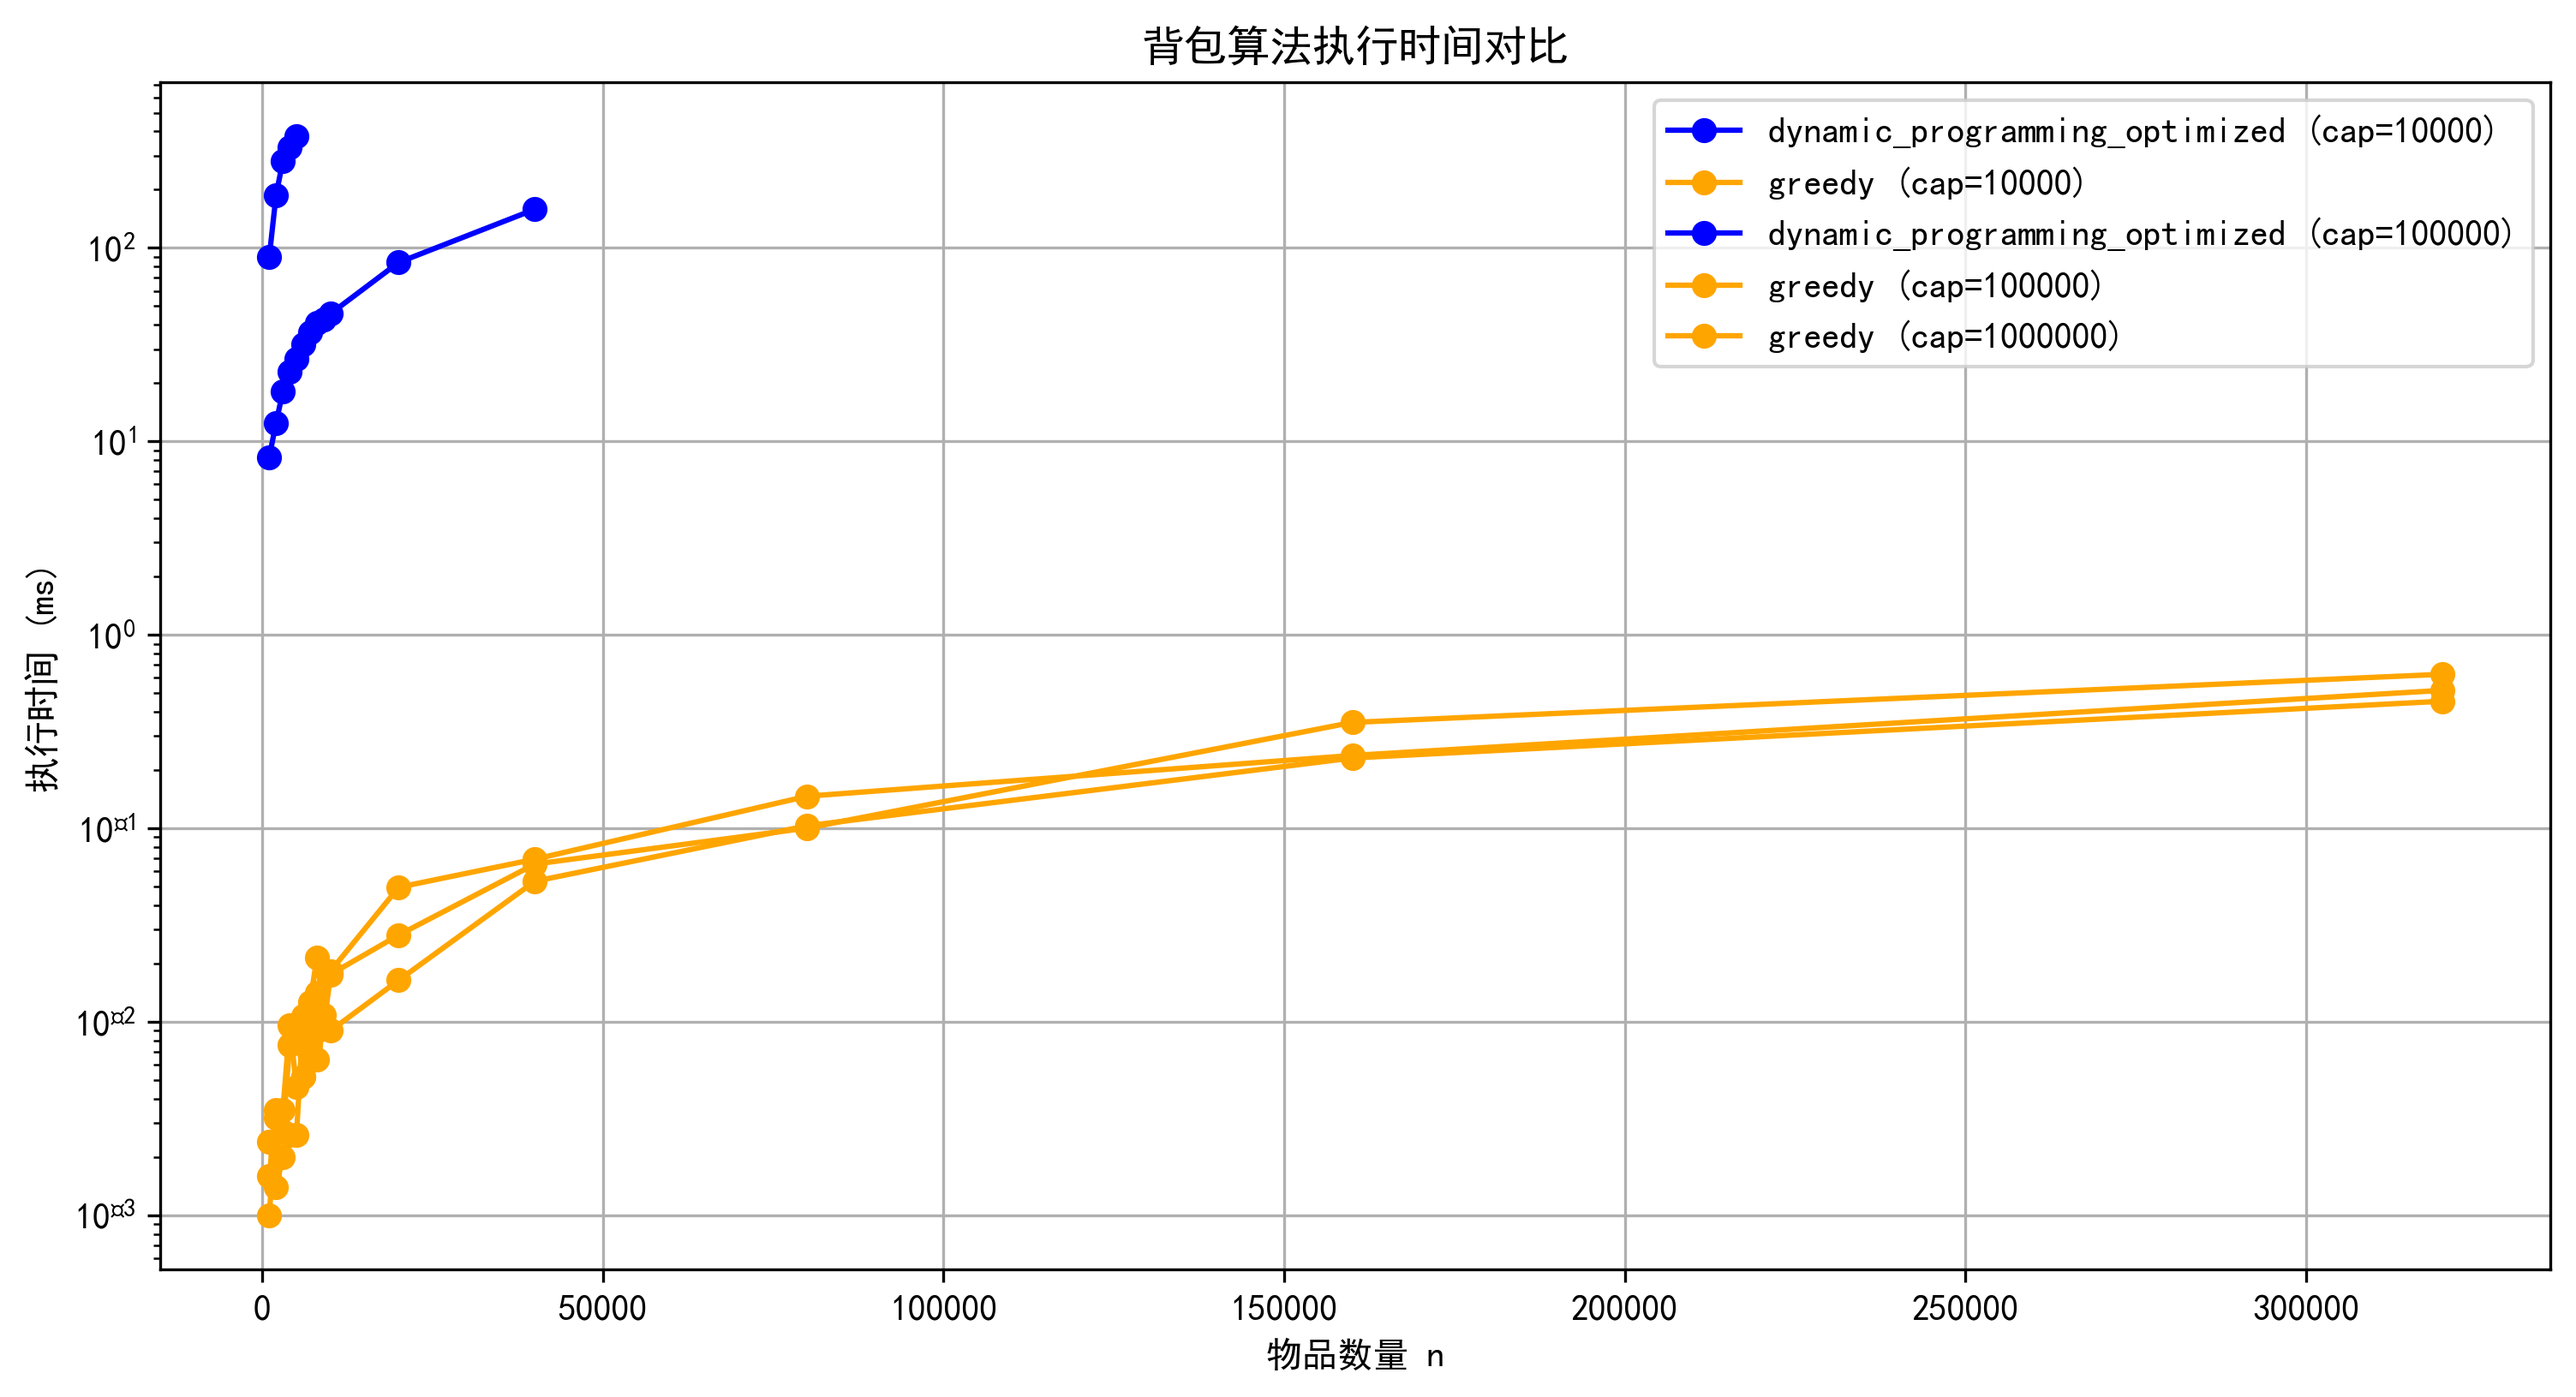
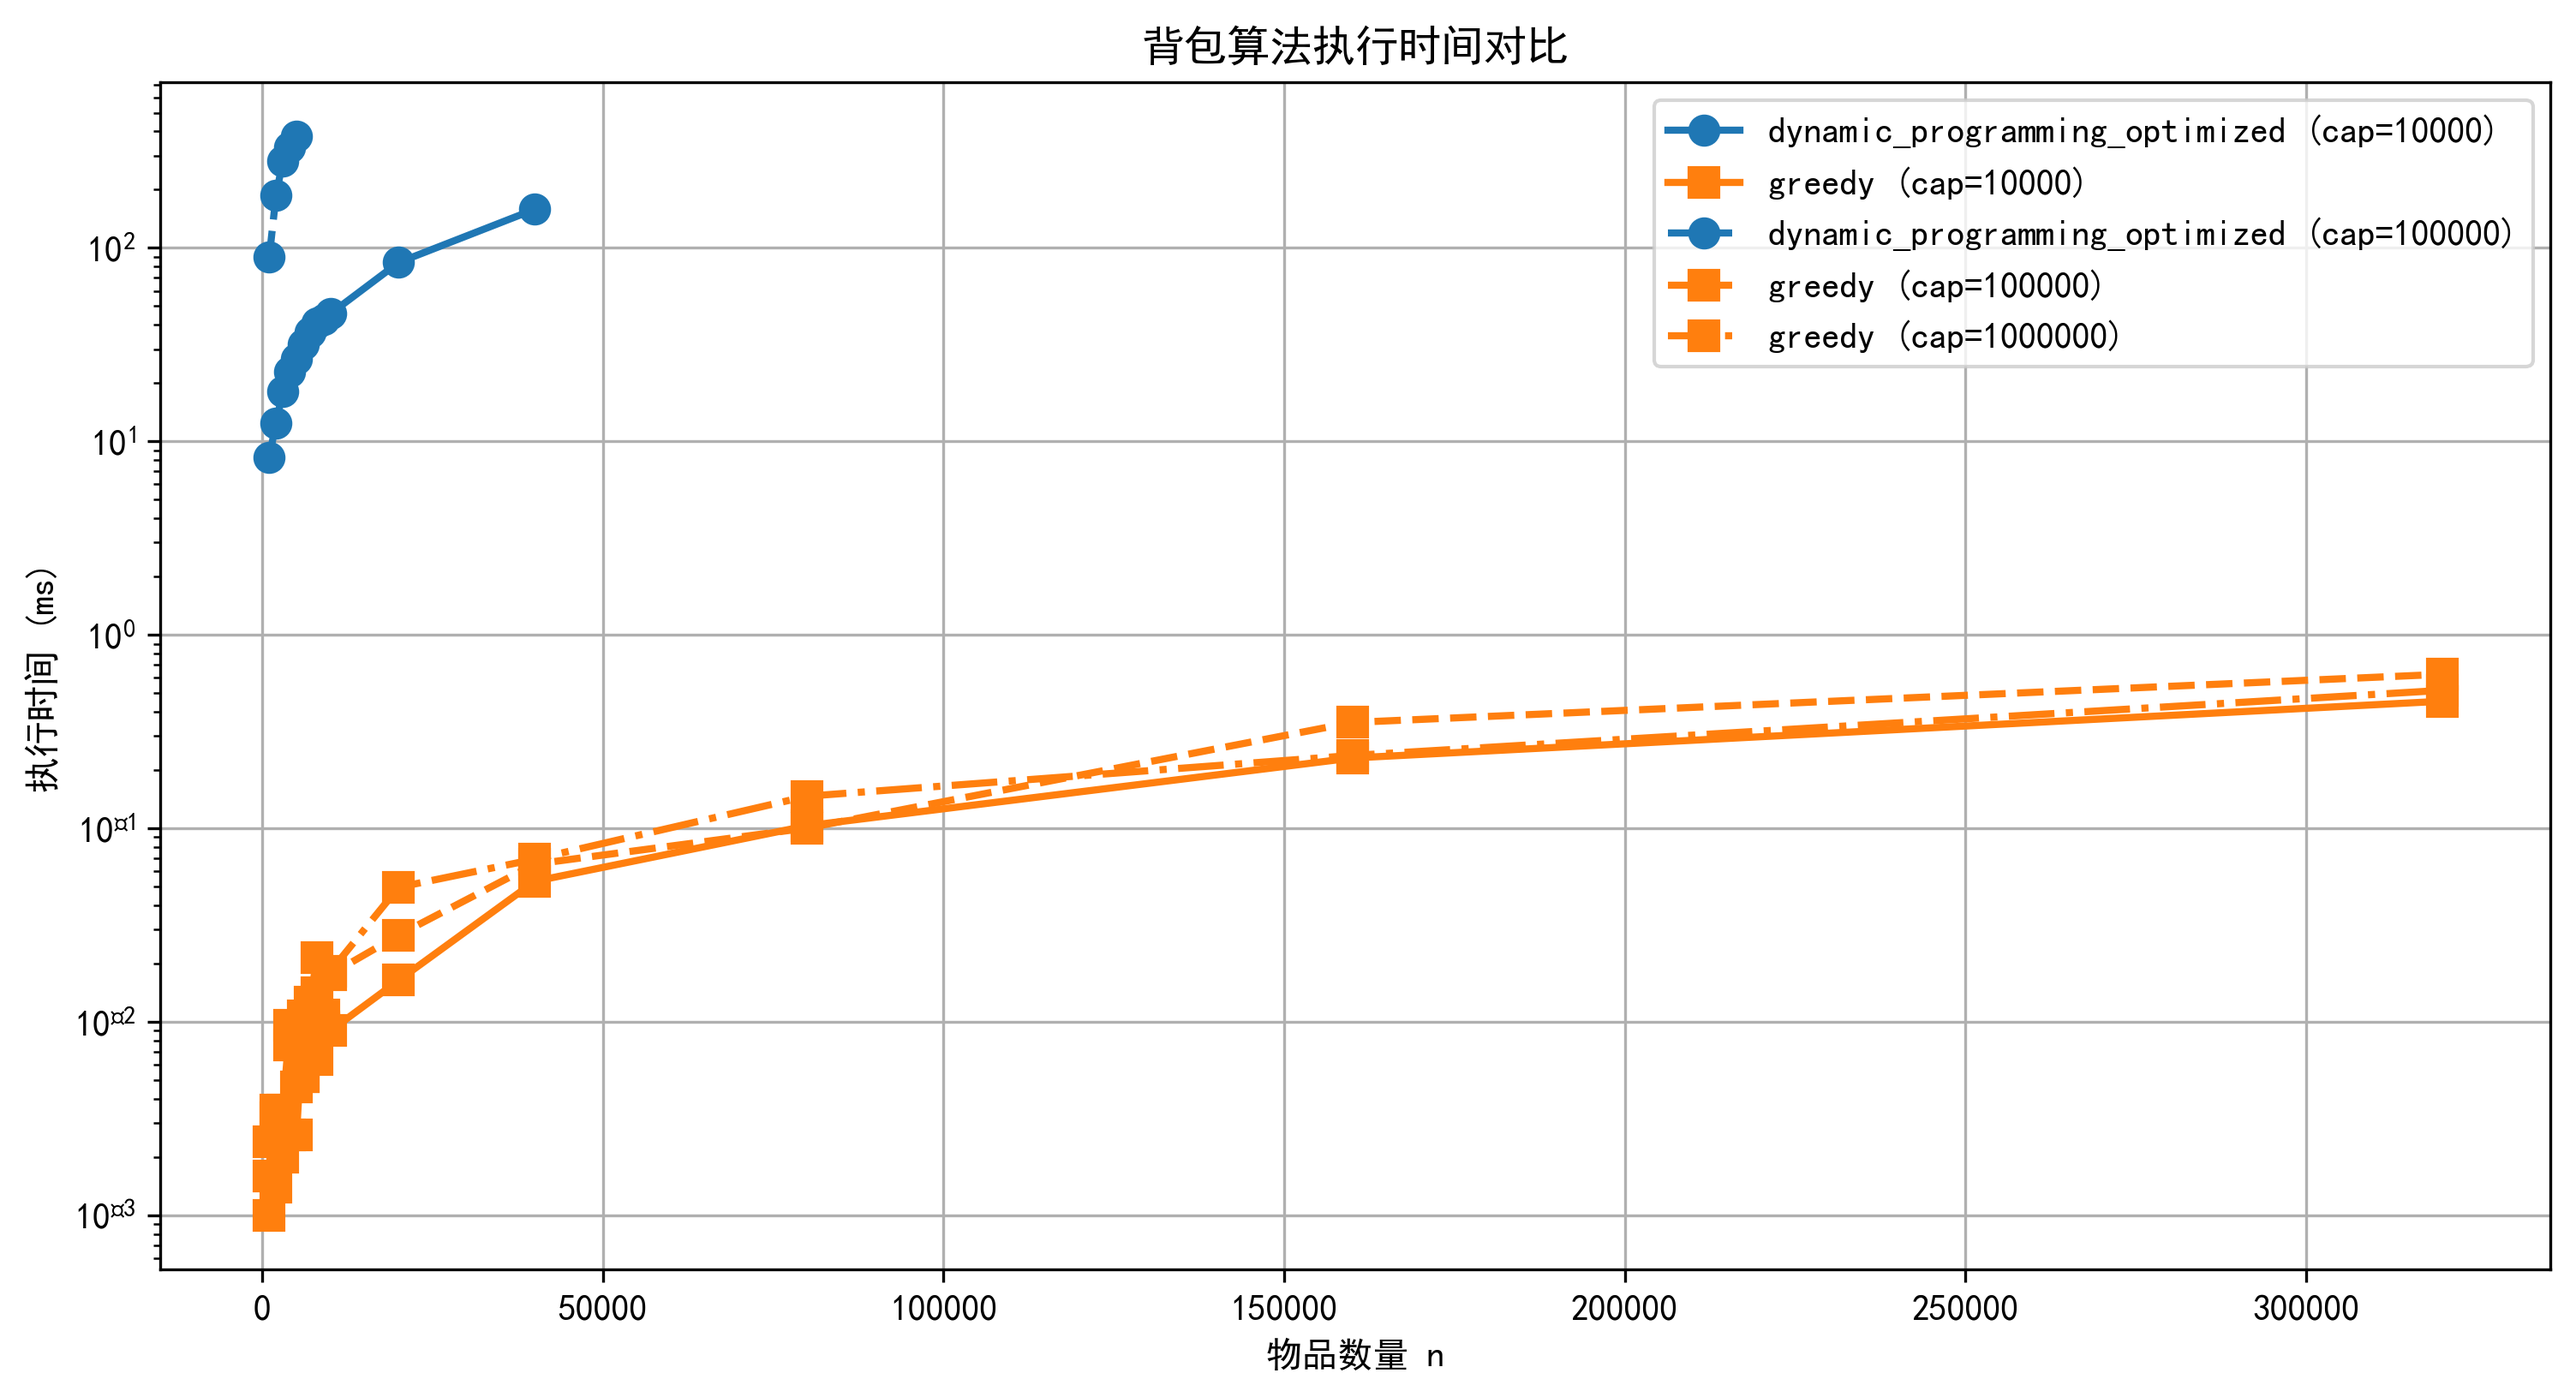
fix: improve knapsack chart colors and remove memory note

diff --git a/scripts/generate_knapsack_charts.py b/scripts/generate_knapsack_charts.py
@@ -1,4 +1,13 @@
-import csv
+import sys
+import csv
+
+# 移除用户目录中的包路径，优先使用 Anaconda 中的版本
+new_path = []
+for p in sys.path:
+    if 'AppData\\Roaming\\Python' not in p:
+        new_path.append(p)
+sys.path = new_path
+
 import matplotlib
 matplotlib.use("Agg")
 matplotlib.rcParams["font.family"] = ["SimHei", "WenQuanYi Micro Hei", "Heiti TC"]
@@ -25,7 +34,9 @@ scale_data = read_csv("results/knapsack/required_scale_results.csv")
 plt.figure(figsize=(12, 6))
 capacities = [10000, 100000, 1000000]
 algorithms = ["dynamic_programming_optimized", "greedy"]
-colors = {"dynamic_programming_optimized": "blue", "greedy": "orange"}
+colors = {"dynamic_programming_optimized": "#1f77b4", "greedy": "#ff7f0e"}
+markers = {"dynamic_programming_optimized": "o", "greedy": "s"}
+linestyles = {10000: "-", 100000: "--", 1000000: "-."}
 
 for capacity in capacities:
     for algo in algorithms:
@@ -36,7 +47,8 @@ for capacity in capacities:
                 n_vals.append(int(row["n"]))
                 times.append(float(row["elapsed_ms"]))
         if n_vals:
-            plt.plot(n_vals, times, marker="o", label=f"{algo} (cap={capacity})", color=colors[algo])
+            plt.plot(n_vals, times, marker=markers[algo], label=f"{algo} (cap={capacity})", 
+                     color=colors[algo], linestyle=linestyles[capacity], linewidth=2, markersize=8)
 
 plt.xlabel("物品数量 n")
 plt.ylabel("执行时间 (ms)")
@@ -58,11 +70,12 @@ for capacity in capacities:
                 n_vals.append(int(row["n"]))
                 mems.append(int(row["estimated_memory_bytes"]) / (1024 * 1024))  # 转换为 MB
         if n_vals:
-            plt.plot(n_vals, mems, marker="s", label=f"{algo} (cap={capacity})", color=colors[algo])
+            plt.plot(n_vals, mems, marker=markers[algo], label=f"{algo} (cap={capacity})", 
+                     color=colors[algo], linestyle=linestyles[capacity], linewidth=2, markersize=8)
 
 plt.xlabel("物品数量 n")
 plt.ylabel("估算内存 (MB)")
-plt.title("背包算法内存使用对比\n(注：此为核心数据结构的估算空间，非操作系统实测峰值内存)")
+plt.title("背包算法内存使用对比")
 plt.legend()
 plt.grid(True)
 plt.savefig("figures/knapsack_memory_usage.png", dpi=300, bbox_inches="tight")
@@ -77,8 +90,10 @@ for capacity in capacities:
     gaps = []
     for row in quality_data:
         if int(row["capacity"]) == capacity:
-            n_vals.append(int(row["n"]))
-            gaps.append(float(row["greedy_gap_percent"]))
+            gap_val = row["greedy_gap_percent"]
+            if gap_val and gap_val.strip():  # 跳过空值
+                n_vals.append(int(row["n"]))
+                gaps.append(float(gap_val))
     if n_vals:
         plt.plot(n_vals, gaps, marker="^", label=f"cap={capacity}")
 
